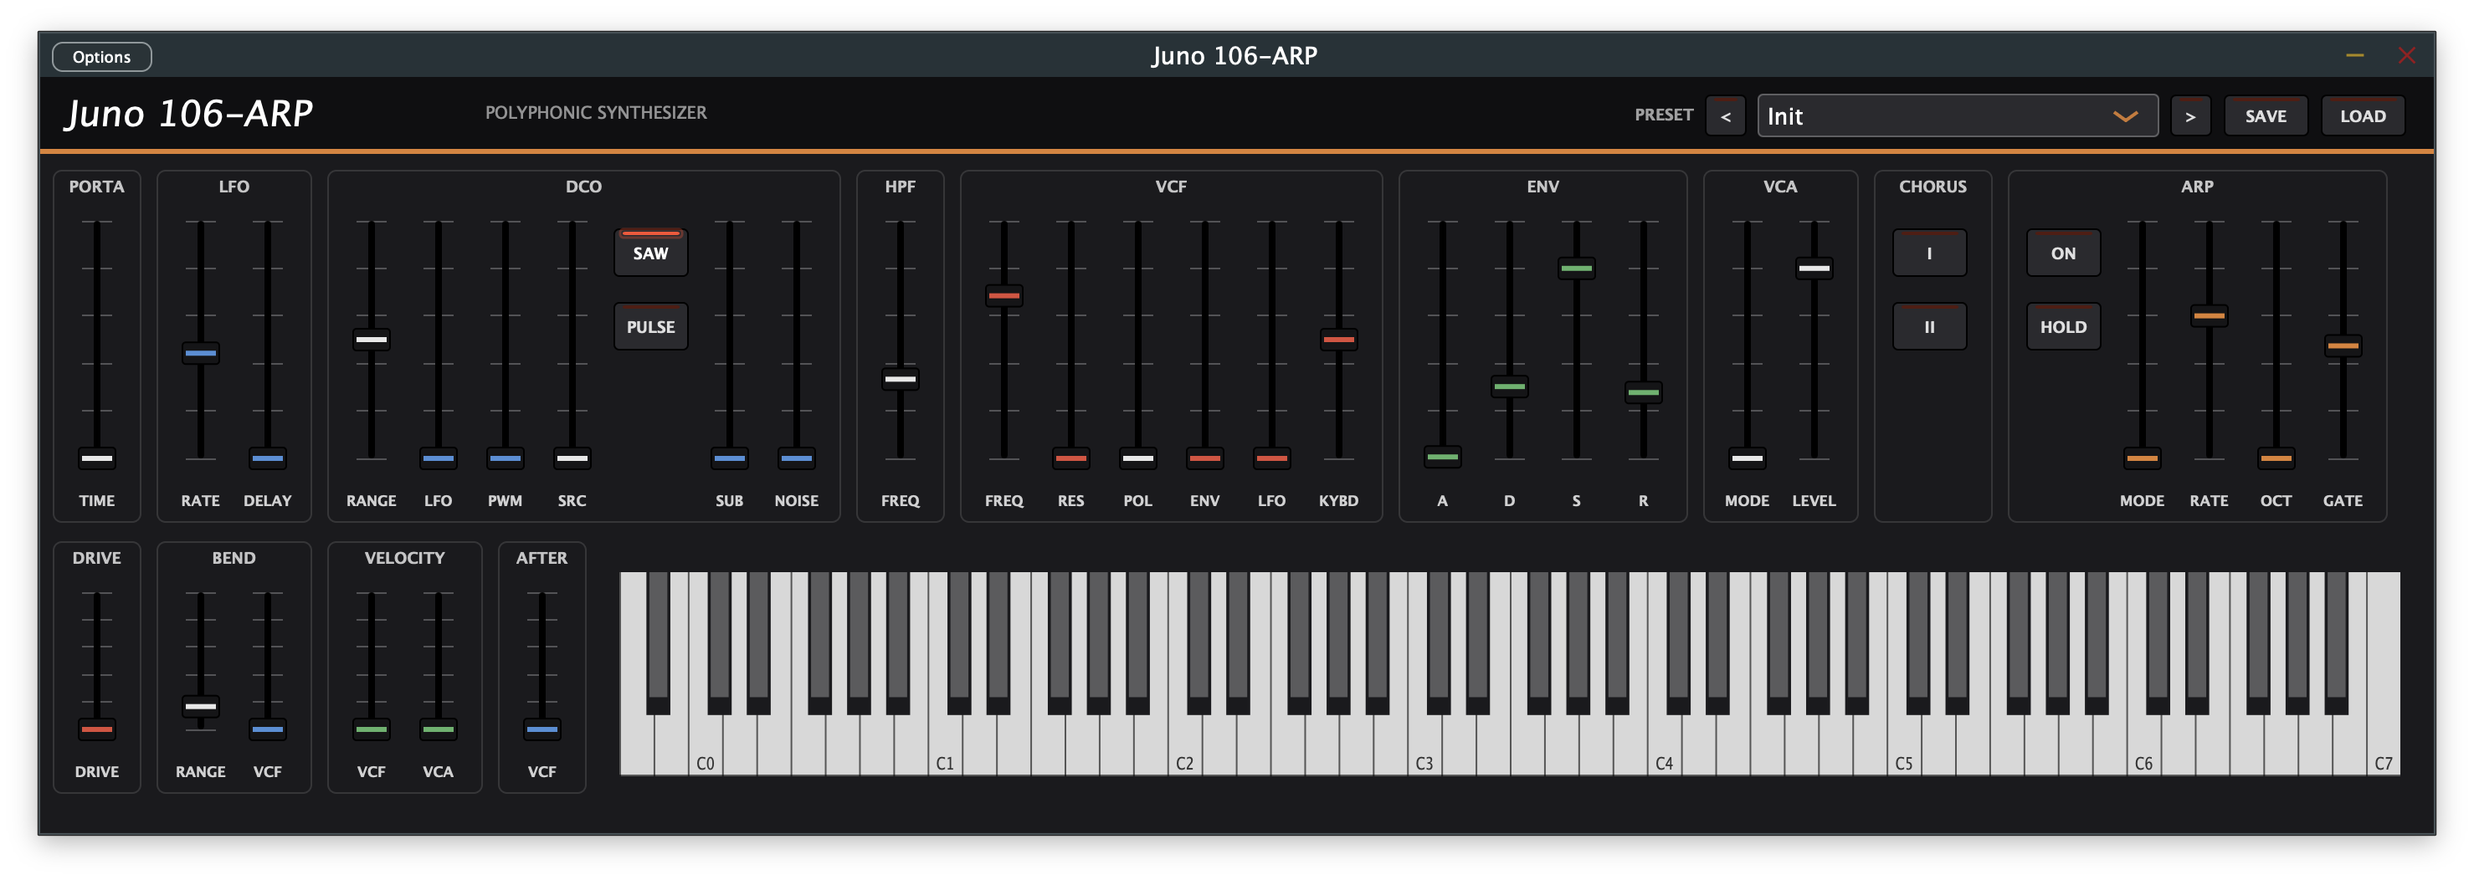
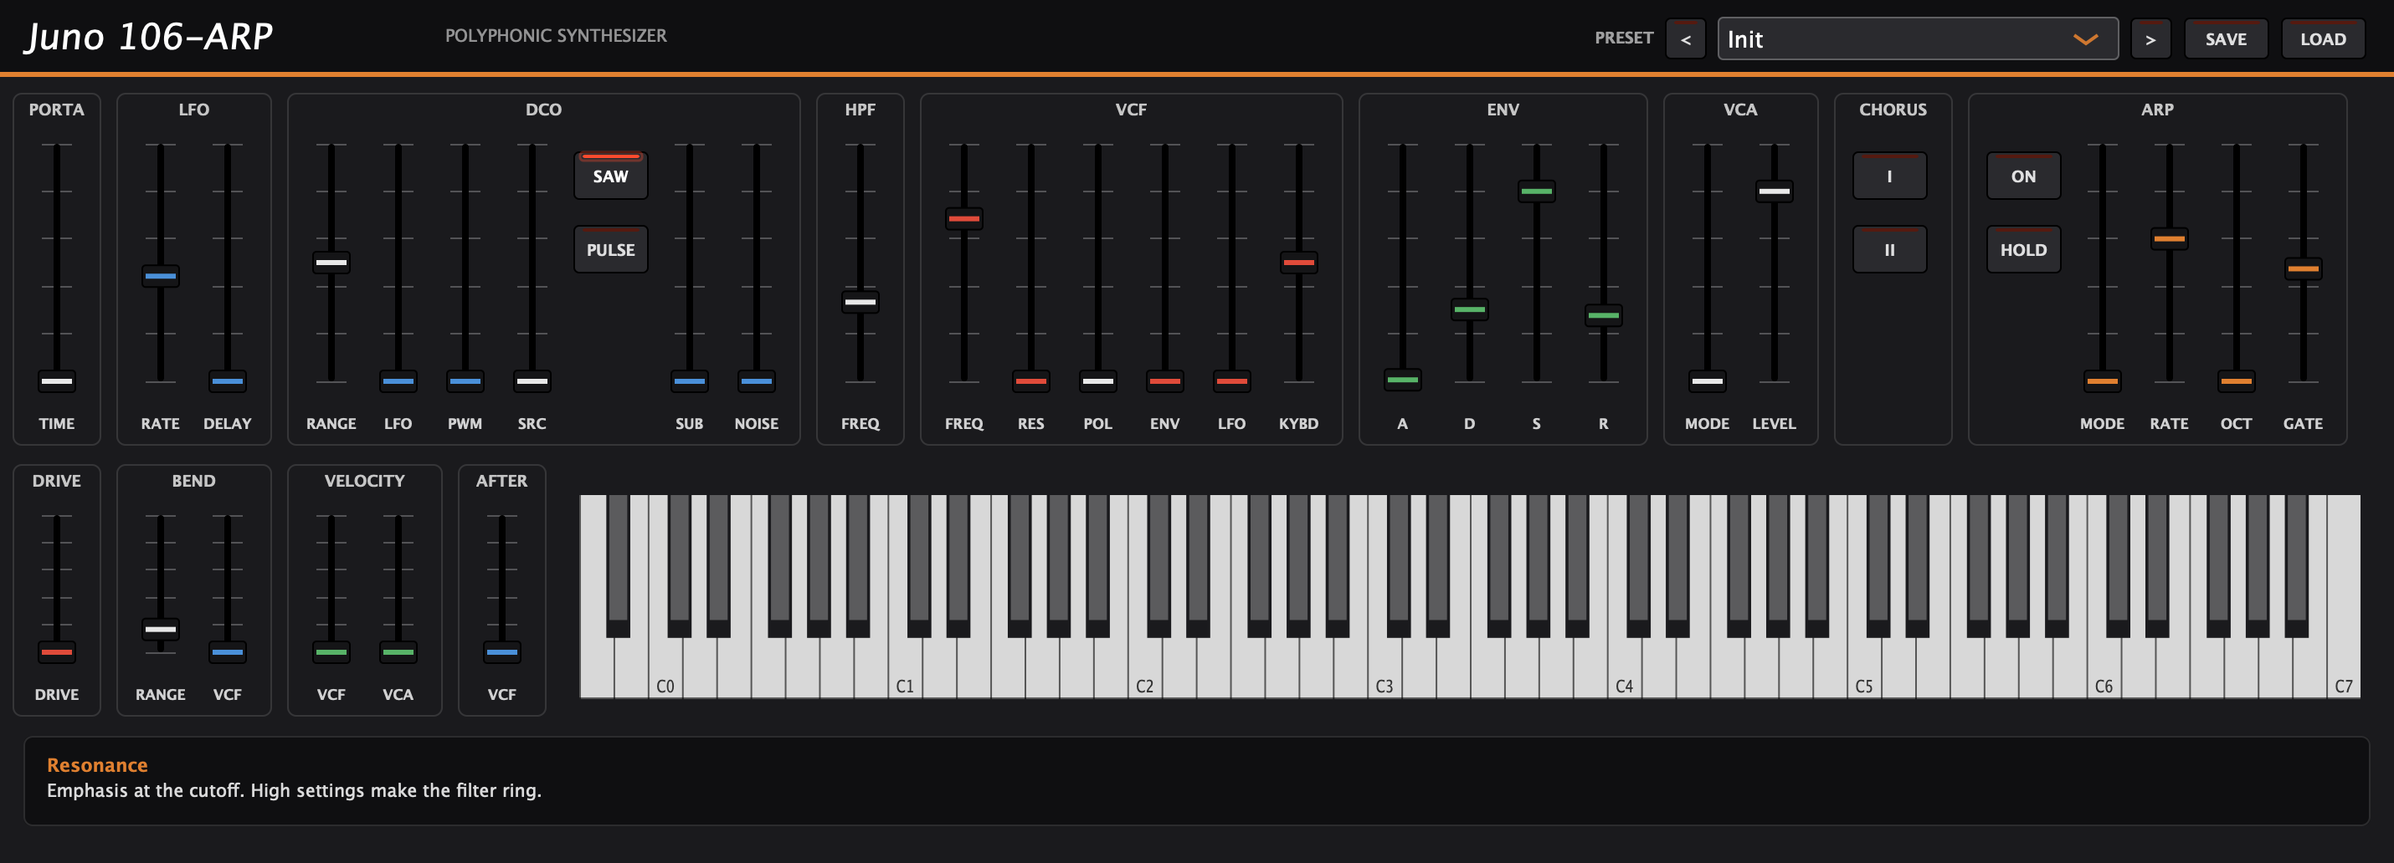
Add an Info View: hover help along the bottom of the editor
As NoteCap's (and Live's own): pointing at any fader, switch, section,
the preset bar or the keyboard shows a bold title and a line or two on
what it does and what its settings mean; elsewhere a short hint.

- One table in PluginEditor.cpp keyed by parameter ID (every fader, its
  caption and every switch carry theirs), header.*, section.* (the
  painted section boxes) and keyboard. infoKeyAt / showInfoFor and
  editor-wide mouse tracking. The editor is 64 px taller (1430x516).
- test_state.cpp: every parameter has an entry, entries brief, every
  entry can be pointed at, the strip isn't an area, pointing and the
  hint; writes the README screenshot.
- README screenshot and notes.

run_tests.sh and run_integration.sh pass; auval passes. pluginval
strictness 10 fails 3 state-restore checks (Arp On, Pulse, Chorus I
restored as fractions, not 0 or 1): processor state, not the editor.

diff --git a/Source/PluginEditor.cpp b/Source/PluginEditor.cpp
@@ -18,6 +18,183 @@ namespace
     constexpr int kRow2H     = 150;
     constexpr int kFaderW    = 40;
     constexpr int kLabelH    = 26;
+    constexpr int kInfoH     = 54;    // the Info View, with a 10 px gap under it
+
+    struct Info { const char* key; const char* title; const char* text; };
+
+    // One entry per parameter, plus the header, the sections and the keyboard. Keep each to a
+    // line or two: what it does, and what its settings mean.
+    const Info kInfo[] = {
+        { "header.preset", "Preset", "The preset loaded: factory presets by category, then any .juno or Juno-106 .syx file loaded or saved this session." },
+        { "header.prev", "Previous", "Loads the preset above in the list." },
+        { "header.next", "Next", "Loads the preset below in the list." },
+        { "header.save", "Save", "Saves these settings as a .juno file, which then appears in the list." },
+        { "header.load", "Load", "Loads a .juno preset, or a Juno-106 .syx bank (one entry per patch)." },
+        { "keyboard", "Keyboard", "Shows the notes sounding, after the arpeggiator. Click to play." },
+
+        { "section.PORTA", "Portamento", "Glide from one note's pitch to the next (not on the original 106)." },
+        { "portamento", "Glide time", "How long each note takes to glide from the last one's pitch, up to 2 seconds. 0: no glide." },
+        { "section.LFO", "LFO", "The low-frequency oscillator: vibrato for the DCO, PWM and the filter." },
+        { "lfoRate", "LFO rate", "The LFO's speed, 0.1 Hz to 30 Hz." },
+        { "lfoDelay", "LFO delay", "How long after a note starts the LFO fades in, up to 3 seconds." },
+        { "section.DCO", "DCO", "The oscillator: its range, modulation, waveforms, sub-oscillator and noise." },
+        { "dcoRange", "Range", "The oscillator's octave: 16' (low), 8' (normal) or 4' (high)." },
+        { "dcoLfo", "DCO LFO", "How much the LFO wobbles the pitch: vibrato." },
+        { "dcoPwm", "PWM", "Pulse width modulation: how far the pulse wave's width moves, or with SRC Manual, its fixed width." },
+        { "pwmSource", "PWM source", "LFO: the LFO moves the pulse width. Manual: the PWM fader sets it." },
+        { "sawOn", "Saw", "Turns the sawtooth wave on or off." },
+        { "pulseOn", "Pulse", "Turns the pulse (square) wave on or off. PWM changes its width." },
+        { "subLevel", "Sub", "The sub-oscillator's level: a square wave an octave below." },
+        { "noiseLevel", "Noise", "The level of white noise added to the oscillator." },
+        { "section.HPF", "HPF", "The high-pass filter switch in front of the VCF." },
+        { "hpf", "HPF", "0: a bass boost. 1: flat. 2 and 3: cut more and more of the lows." },
+        { "section.VCF", "VCF", "The resonant low-pass filter and what moves its cutoff." },
+        { "vcfFreq", "Cutoff", "The filter's cutoff: lower is darker." },
+        { "vcfRes", "Resonance", "Emphasis at the cutoff. High settings make the filter ring." },
+        { "vcfEnvPol", "Envelope polarity", "Positive: the envelope opens the filter. Negative: it closes it." },
+        { "vcfEnv", "VCF env", "How far the envelope moves the cutoff." },
+        { "vcfLfo", "VCF LFO", "How far the LFO moves the cutoff: a wah." },
+        { "vcfKybd", "Keyboard follow", "How much the cutoff follows the key played: higher notes brighter." },
+        { "section.ENV", "Envelope", "The ADSR envelope, shared by the VCF and (in Env mode) the VCA." },
+        { "attack", "Attack", "How long the envelope takes to reach full level, up to 3 seconds." },
+        { "decay", "Decay", "How long it takes to fall from full level to the sustain level, up to 12 seconds." },
+        { "sustain", "Sustain", "The level held while the key is down." },
+        { "release", "Release", "How long the sound takes to fade after the key is let go, up to 12 seconds." },
+        { "section.VCA", "VCA", "The amplifier: its mode and level." },
+        { "vcaMode", "VCA mode", "Env: the envelope shapes the volume. Gate: full volume while the key is down, off when it is let go." },
+        { "vcaLevel", "VCA level", "The output level." },
+        { "section.CHORUS", "Chorus", "The Juno's chorus: I, II, or both together." },
+        { "chorusI", "Chorus I", "The gentler chorus. With II too, both run together." },
+        { "chorusII", "Chorus II", "The deeper chorus. With I too, both run together." },
+        { "section.ARP", "Arpeggiator", "Plays the held notes one at a time, locked to the host's tempo (not on the original 106)." },
+        { "arpOn", "Arp on", "Turns the arpeggiator on or off." },
+        { "arpHold", "Arp hold", "Latch: the arp keeps playing after you let go, until you play new notes." },
+        { "arpMode", "Arp mode", "The note order: Up, Down, Up/Down, Down/Up, Random, or As Played." },
+        { "arpRate", "Arp rate", "The step length: 1/4 to 1/32 (T: triplets)." },
+        { "arpOctaves", "Arp octaves", "How many octaves the arp climbs (1 to 4)." },
+        { "arpGate", "Arp gate", "How much of each step a note sounds, 5% to 100%." },
+        { "section.DRIVE", "Drive", "Filter drive (not on the original 106)." },
+        { "vcfDrive", "Drive", "Pushes the filter harder, for a warmer, grittier sound." },
+        { "section.BEND", "Bend", "What the pitch bender does." },
+        { "bendRange", "Bend range", "How far the bender moves the pitch, in semitones (0 to 12)." },
+        { "benderVcf", "Bender VCF", "How far the bender moves the cutoff too, up to 2 octaves." },
+        { "section.VELOCITY", "Velocity", "How playing harder changes the sound (not on the original 106)." },
+        { "velVcf", "Velocity VCF", "How much velocity moves the cutoff: harder notes open it, softer ones close it (up to 2 octaves each way)." },
+        { "velVca", "Velocity VCA", "How much harder notes play louder. 0: every note at the same level." },
+        { "section.AFTER", "Aftertouch", "What pressing harder on a held key does (not on the original 106)." },
+        { "atVcf", "Aftertouch VCF", "How far pressure opens the filter, up to 4 octaves." },
+    };
+
+    const char* kInfoHint = "Point at a control to see what it does.";
+
+    const Info* findInfo (const juce::String& key)
+    {
+        if (key.isEmpty())
+            return nullptr;
+        for (const auto& i : kInfo)
+            if (key == i.key)
+                return &i;
+        return nullptr;
+    }
+}
+
+//==============================================================================
+void Juno106AudioProcessorEditor::InfoView::show (const juce::String& newKey, const juce::String& newTitle, const juce::String& newText)
+{
+    key = newKey;
+    if (newTitle == title && newText == text)
+        return;
+    title = newTitle;
+    text = newText;
+    repaint();
+}
+
+void Juno106AudioProcessorEditor::InfoView::paint (juce::Graphics& g)
+{
+    auto r = getLocalBounds().toFloat();
+    g.setColour (kHeader);
+    g.fillRoundedRectangle (r, 5.0f);
+    g.setColour (juce::Colours::white.withAlpha (0.12f));
+    g.drawRoundedRectangle (r.reduced (0.5f), 5.0f, 1.0f);
+    r = r.reduced (14.0f, 8.0f);
+    if (title.isNotEmpty())
+    {
+        g.setColour (kOrangeLine);
+        g.setFont (juce::Font (juce::FontOptions (13.0f, juce::Font::bold)));
+        g.drawText (title, r.removeFromTop (18.0f), juce::Justification::centredLeft);
+    }
+    g.setColour (juce::Colours::white.withAlpha (title.isEmpty() ? 0.55f : 0.85f));
+    g.setFont (juce::Font (juce::FontOptions (12.5f)));
+    g.drawFittedText (text, r.toNearestInt(), juce::Justification::topLeft, 2, 1.0f);
+}
+
+juce::String Juno106AudioProcessorEditor::infoTitle (const juce::String& key)
+{
+    const auto* i = findInfo (key);
+    return i != nullptr ? juce::String::fromUTF8 (i->title) : juce::String();
+}
+
+juce::String Juno106AudioProcessorEditor::infoText (const juce::String& key)
+{
+    const auto* i = findInfo (key);
+    return i != nullptr ? juce::String::fromUTF8 (i->text) : juce::String();
+}
+
+juce::StringArray Juno106AudioProcessorEditor::infoKeys()
+{
+    juce::StringArray out;
+    for (const auto& i : kInfo)
+        out.add (i.key);
+    return out;
+}
+
+juce::String Juno106AudioProcessorEditor::infoHint() { return kInfoHint; }
+
+juce::String Juno106AudioProcessorEditor::infoKeyAt (juce::Point<int> p)
+{
+    // The innermost thing under the point with a key, else the section it is in. (From the
+    // children down: the editor's own getComponentAt needs it to be on screen.)
+    juce::Component* hit = nullptr;
+    for (int i = getNumChildComponents(); --i >= 0 && hit == nullptr;)
+    {
+        auto* child = getChildComponent (i);
+        if (child->isVisible() && child->getBounds().contains (p))
+            hit = child->getComponentAt (child->getLocalPoint (this, p));
+    }
+    for (auto* c = hit; c != nullptr && c != this; c = c->getParentComponent())
+        if (findInfo (c->getComponentID()) != nullptr)
+            return c->getComponentID();
+    if (hit == nullptr)
+        for (const auto& s : sections)
+            if (s.bounds.contains (p))
+                return "section." + s.name;
+    return {};
+}
+
+void Juno106AudioProcessorEditor::showInfoFor (const juce::String& key)
+{
+    if (const auto* i = findInfo (key))
+        info.show (key, juce::String::fromUTF8 (i->title), juce::String::fromUTF8 (i->text));
+    else
+        info.show ({}, {}, kInfoHint);
+}
+
+void Juno106AudioProcessorEditor::updateInfo (const juce::MouseEvent& e)
+{
+    const auto key = infoKeyAt (e.getEventRelativeTo (this).getPosition());
+    if (key != info.key || info.text.isEmpty())
+        showInfoFor (key);
+}
+
+void Juno106AudioProcessorEditor::mouseEnter (const juce::MouseEvent& e) { updateInfo (e); }
+void Juno106AudioProcessorEditor::mouseMove (const juce::MouseEvent& e)  { updateInfo (e); }
+void Juno106AudioProcessorEditor::mouseDrag (const juce::MouseEvent& e)  { updateInfo (e); }
+
+void Juno106AudioProcessorEditor::mouseExit (const juce::MouseEvent& e)
+{
+    // Moving between children also sends exits: clear only on leaving the editor.
+    if (! getLocalBounds().contains (e.getEventRelativeTo (this).getPosition()))
+        showInfoFor ({});
 }
 
 //==============================================================================
@@ -156,7 +333,18 @@ Juno106AudioProcessorEditor::Juno106AudioProcessorEditor (Juno106AudioProcessor&
     refreshPresetList (processor.getCurrentProgram() + 1);
     lastSeenProgram = processor.getCurrentProgram();
 
-    setSize (1430, 452);
+    // The Info View's keys for what isn't a fader or a switch (those carry their parameter's ID).
+    presetBox.setComponentID ("header.preset");
+    prevButton.setComponentID ("header.prev");
+    nextButton.setComponentID ("header.next");
+    saveButton.setComponentID ("header.save");
+    loadButton.setComponentID ("header.load");
+    keyboard.setComponentID ("keyboard");
+    addAndMakeVisible (info);
+    showInfoFor ({});
+    addMouseListener (this, true);   // hovering over any child updates the Info View
+
+    setSize (1430, 452 + kInfoH + 10);   // 64 px taller than before the Info View
 
     // Poll the processor so host-driven program changes are reflected here too.
     startTimerHz (10);
@@ -357,6 +545,8 @@ Juno106AudioProcessorEditor::Fader& Juno106AudioProcessorEditor::addFader (
     }
 
     addAndMakeVisible (f.slider);
+    f.slider.setComponentID (paramID);   // the Info View's key, for the fader and its caption
+    f.label.setComponentID (paramID);
 
     f.label.setText (text, juce::dontSendNotification);
     f.label.setJustificationType (juce::Justification::centred);
@@ -377,6 +567,7 @@ Juno106AudioProcessorEditor::Toggle& Juno106AudioProcessorEditor::addToggle (
 
     t.button.setButtonText (text);
     t.button.setClickingTogglesState (true);
+    t.button.setComponentID (paramID);   // the Info View's key
     addAndMakeVisible (t.button);
 
     t.attachment = std::make_unique<ButtonAttachment> (processor.apvts, paramID, t.button);
@@ -511,6 +702,9 @@ void Juno106AudioProcessorEditor::resized()
     const int kbW = getWidth() - kbX - 20;
     keyboard.setBounds (kbX, rowY + 18, kbW, rowH - 18 - 10);
     keyboard.setKeyWidth ((float) kbW / 52.0f);     // 52 white keys in A0..C8
+
+    // The Info View along the bottom, under both rows.
+    info.setBounds (14, kRow2Y + kRow2H + 12, getWidth() - 28, kInfoH);
 }
 
 void Juno106AudioProcessorEditor::paint (juce::Graphics& g)

diff --git a/Tests/test_state.cpp b/Tests/test_state.cpp
@@ -1,6 +1,8 @@
 // Integration test: the real processor's preset save/load round trip must
-// restore parameters AND still produce audio. Run via run_integration.sh.
+// restore parameters AND still produce audio; the editor's Info View describes every
+// control. Run via run_integration.sh.
 #include "PluginProcessor.h"
+#include "PluginEditor.h"
 #include <iostream>
 #include <cmath>
 
@@ -292,6 +294,61 @@ int main()
     }
 
     file.deleteFile();
+
+    // ---- The Info View ------------------------------------------------------------------------
+    std::cout << "Info View\n";
+    {
+        Juno106AudioProcessor fresh;
+        std::unique_ptr<juce::AudioProcessorEditor> base (fresh.createEditor());
+        auto* editor = dynamic_cast<Juno106AudioProcessorEditor*> (base.get());
+        check (editor != nullptr, "the editor opens");
+        if (editor != nullptr)
+        {
+            // Every parameter has an entry, and they stay brief.
+            juce::StringArray noEntry, tooLong;
+            for (auto* p : fresh.getParameters())
+                if (auto* withId = dynamic_cast<juce::AudioProcessorParameterWithID*> (p))
+                    if (Juno106AudioProcessorEditor::infoTitle (withId->paramID).isEmpty())
+                        noEntry.add (withId->paramID);
+            for (const auto& k : Juno106AudioProcessorEditor::infoKeys())
+                if (Juno106AudioProcessorEditor::infoText (k).length() > 200 || Juno106AudioProcessorEditor::infoTitle (k).length() > 24)
+                    tooLong.add (k);
+            check (noEntry.isEmpty(), ("every parameter has an Info View entry" + (noEntry.isEmpty() ? juce::String() : ": none for " + noEntry.joinIntoString (", "))).toRawUTF8());
+            check (tooLong.isEmpty(), ("entries stay brief (titles at most 24 characters, text at most 200)" + (tooLong.isEmpty() ? juce::String() : ": " + tooLong.joinIntoString (", "))).toRawUTF8());
+
+            // Everything in the table can be pointed at.
+            juce::StringArray found, unreachable;
+            for (int y = 0; y < editor->getHeight(); y += 2)
+                for (int x = 0; x < editor->getWidth(); x += 2)
+                    found.addIfNotAlreadyThere (editor->infoKeyAt ({ x, y }));
+            for (const auto& k : Juno106AudioProcessorEditor::infoKeys())
+                if (! found.contains (k))
+                    unreachable.add (k);
+            check (unreachable.isEmpty(), ("everything described can be pointed at (" + juce::String (found.size() - 1) + " keys)"
+                                           + (unreachable.isEmpty() ? juce::String() : "; not: " + unreachable.joinIntoString (", "))).toRawUTF8());
+
+            // The strip sits under both rows and isn't something to point at; pointing and the hint.
+            const auto strip = editor->infoBounds();
+            check (strip.getBottom() <= editor->getHeight() && strip.getY() >= editor->getHeight() - 80 && editor->infoKeyAt (strip.getCentre()).isEmpty(),
+                   "the strip runs along the bottom and isn't itself something to point at");
+            juce::Point<int> resAt;
+            for (int y = 0; y < editor->getHeight() && resAt.isOrigin(); y += 2)
+                for (int x = 0; x < editor->getWidth() && resAt.isOrigin(); x += 2)
+                    if (editor->infoKeyAt ({ x, y }) == "vcfRes")
+                        resAt = { x + 4, y + 20 };
+            editor->showInfoFor (editor->infoKeyAt (resAt));
+            check (editor->shownInfoKey() == "vcfRes" && editor->shownInfoTitle() == "Resonance", "pointing at the VCF's RES fader shows its entry");
+            const auto image = editor->createComponentSnapshot (editor->getLocalBounds(), true, 2.0f);   // the README's screenshot, at 2x
+            auto out = juce::File::getCurrentWorkingDirectory().getChildFile ("Tests/build/editor-info.png");
+            out.deleteFile();
+            juce::FileOutputStream stream (out);
+            juce::PNGImageFormat().writeImageToStream (image, stream);
+            std::cout << "  (wrote " << out.getFullPathName() << ")\n";
+            editor->showInfoFor ({});
+            check (editor->shownInfoTitle().isEmpty() && editor->shownInfoText() == Juno106AudioProcessorEditor::infoHint(), "nothing pointed at shows the hint");
+        }
+    }
+
     std::cout << (failures == 0 ? "\nALL TESTS PASSED\n" : "\nTESTS FAILED\n");
     return failures == 0 ? 0 : 1;
 }

diff --git a/Source/PluginEditor.h b/Source/PluginEditor.h
@@ -15,8 +15,36 @@ public:
     void paint (juce::Graphics&) override;
     void resized() override;
 
+    // The Info View (as NoteCap's and Live's own): a strip along the bottom that says what the
+    // control under the mouse does. The key of what is at `p` (editor coordinates: a parameter
+    // ID, "header.…", "section.VCF", "keyboard"; empty over nothing described, the strip
+    // itself included), its entry, and showing one as hovering does.
+    juce::String infoKeyAt (juce::Point<int> p);
+    void showInfoFor (const juce::String& key);
+    static juce::String infoTitle (const juce::String& key);
+    static juce::String infoText (const juce::String& key);
+    static juce::StringArray infoKeys();
+    static juce::String infoHint();
+    const juce::String& shownInfoKey() const noexcept { return info.key; }
+    const juce::String& shownInfoTitle() const noexcept { return info.title; }
+    const juce::String& shownInfoText() const noexcept { return info.text; }
+    juce::Rectangle<int> infoBounds() const { return info.getBounds(); }
+
+    void mouseEnter (const juce::MouseEvent&) override;
+    void mouseMove (const juce::MouseEvent&) override;
+    void mouseDrag (const juce::MouseEvent&) override;
+    void mouseExit (const juce::MouseEvent&) override;
+
 private:
-    void timerCallback() override;   // keeps the preset box in sync with the host
+    void timerCallback() override;
+    void updateInfo (const juce::MouseEvent&);
+
+    struct InfoView : public juce::Component
+    {
+        juce::String key, title, text;
+        void show (const juce::String& newKey, const juce::String& newTitle, const juce::String& newText);
+        void paint (juce::Graphics&) override;
+    };   // keeps the preset box in sync with the host
 
 private:
     using SliderAttachment = juce::AudioProcessorValueTreeState::SliderAttachment;
@@ -115,6 +143,7 @@ private:
     juce::ComboBox presetBox;
     juce::TextButton prevButton, nextButton, saveButton, loadButton;
     ArpDisplayKeyboard keyboard;
+    InfoView info;
     std::unique_ptr<juce::FileChooser> fileChooser;
     std::vector<SessionPreset> sessionPresets;   // combo IDs 1001+
     bool userPresetActive = false;

diff --git a/README.md b/README.md
@@ -5,7 +5,11 @@ with JUCE. Builds as an **Audio Unit** and **VST3** (universal arm64 + x86_64),
 plus a Standalone app for quick testing. Loads into Ableton Live and any other
 AU/VST3 host on macOS.
 
-![Alt text](/screenshot.png?raw=true "Instrument Interface")
+![The Juno 106-ARP editor, with the Info View describing the VCF's resonance](/screenshot.png?raw=true "Instrument Interface")
+
+Point at any fader, switch or section and the **Info View** strip along the
+bottom of the editor says what it does and what its settings mean, like Live's
+own Info View.
 
 
 ## Architecture (faithful to the original signal path)
@@ -76,7 +80,9 @@ JUCE_DIR=~/Development/JUCE Tests/run_tests.sh
 
 `Tests/run_integration.sh` links against the built plugin and checks that a preset
 save/load round trip restores parameters *and* still produces audio (needs a
-Release build first).
+Release build first). It also checks the editor's Info View: every parameter has
+an entry, every entry can be pointed at, and it writes the screenshot above to
+`Tests/build/editor-info.png`.
 
 CI (`.github/workflows/build.yml`) builds the AU/VST3/Standalone and runs both on
 every push.
